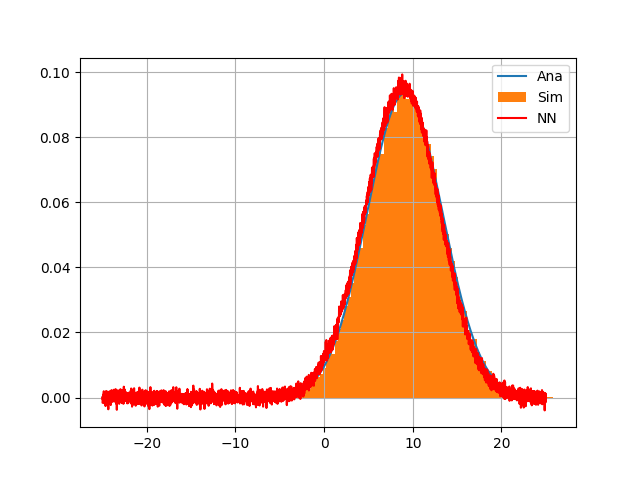
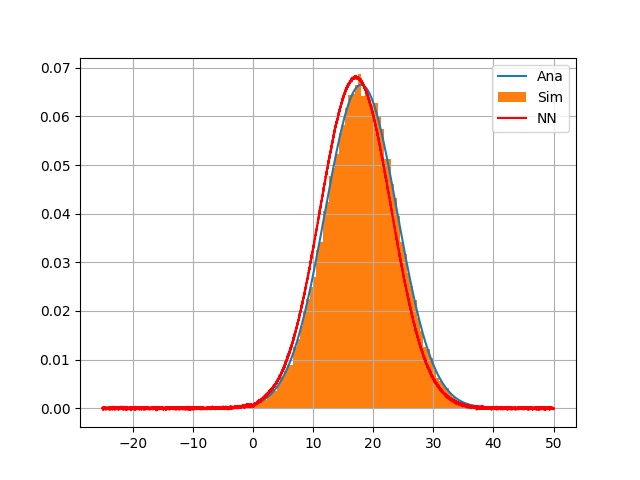
-

diff --git a/src/Neural_Network_python/code/main.py b/src/Neural_Network_python/code/main.py
@@ -53,7 +53,7 @@ def main() -> None:
                 df_sim_processing_train=df_sim_processing_train,
                 n_xtrain=n_xtrain,
                 n_ytrain=n_ytrain,
-                epoch=2,
+                epoch=50,
             )
             predict_model_test = nn.predict_model_test(
                 modell_nn=model_nn, df_sim_processing_test=df_sim_processing_test
@@ -80,7 +80,6 @@ def main() -> None:
         df_sim_processing_train=df_sim_processing_train,
         df_ana_train=df_ana_train,
     )
-    print(df_ana_train.iloc[700], df_sim_processing_train.iloc[700])
     nn.comparison_nn_sim_ana_test(
         a=predict_model_test,
         time=0,